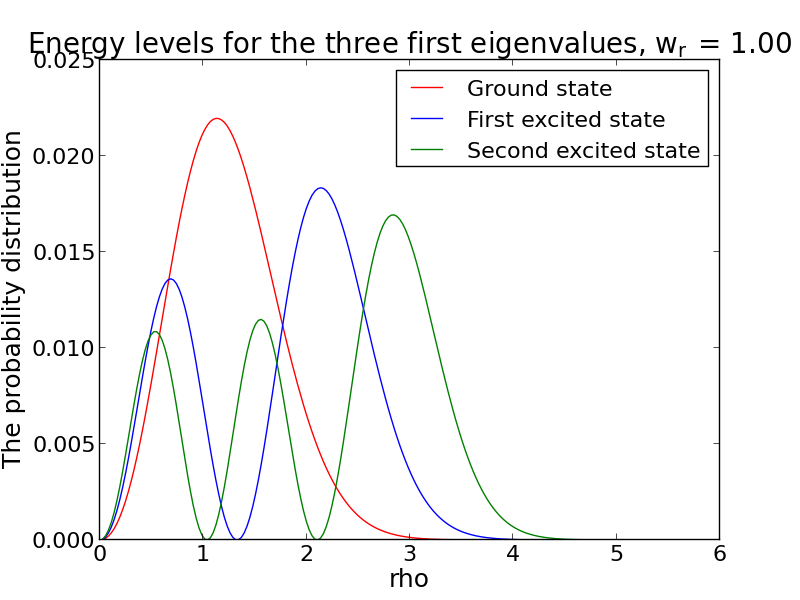
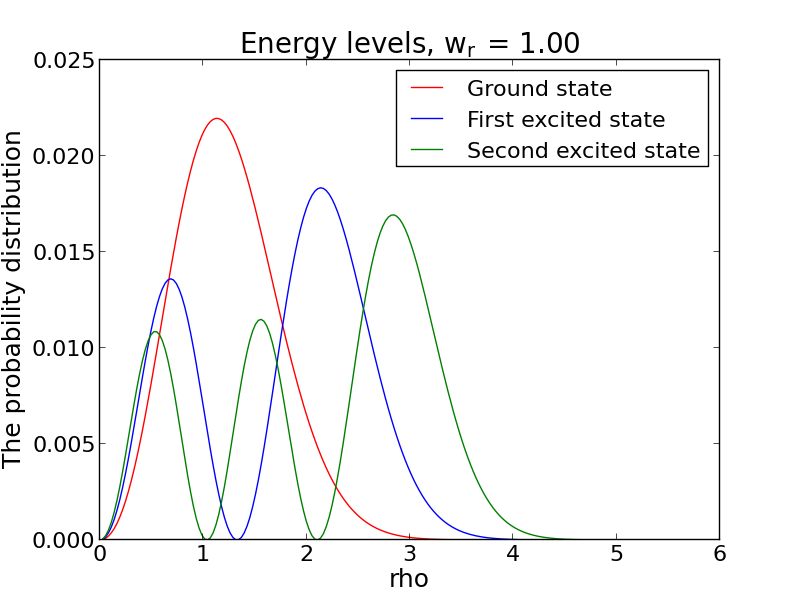
fixed plotnames

Changed region(s): [[0.0312, 0.03, 0.8438, 0.09], [0.875, 0.06, 1.0, 0.09]]

diff --git a/Project2/plot_results.py b/Project2/plot_results.py
@@ -27,7 +27,7 @@ for line in file:
     i += 1
 
 plt.plot(rho, u1, 'r', rho, u2, 'b', rho, u3, 'g')
-plt.title('Energy levels for the three first eigenvalues, $w_r$ = %.2f' %w_r , fontsize = 20)
+plt.title('Energy levels, $w_r$ = %.2f' %w_r , fontsize = 20)
 plt.xlabel('rho', fontsize = 18)
 plt.ylabel('The probability distribution', fontsize = 18)
 pylab.xticks(fontsize=16)
